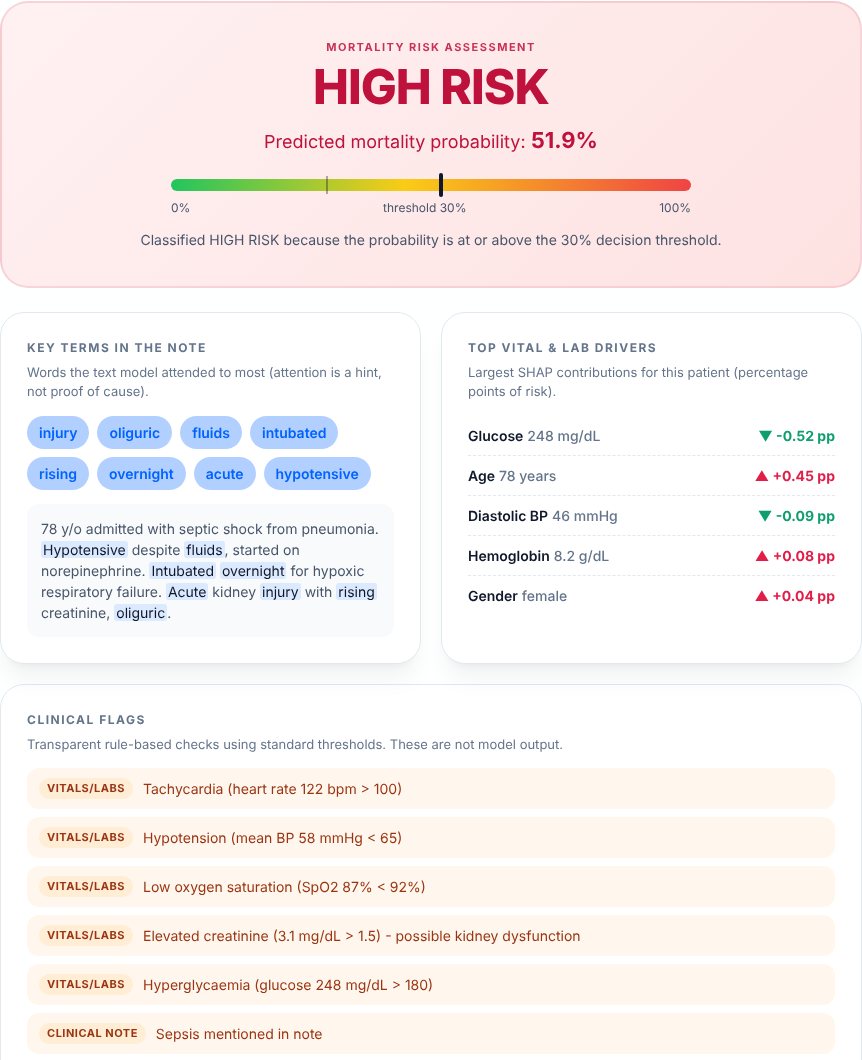
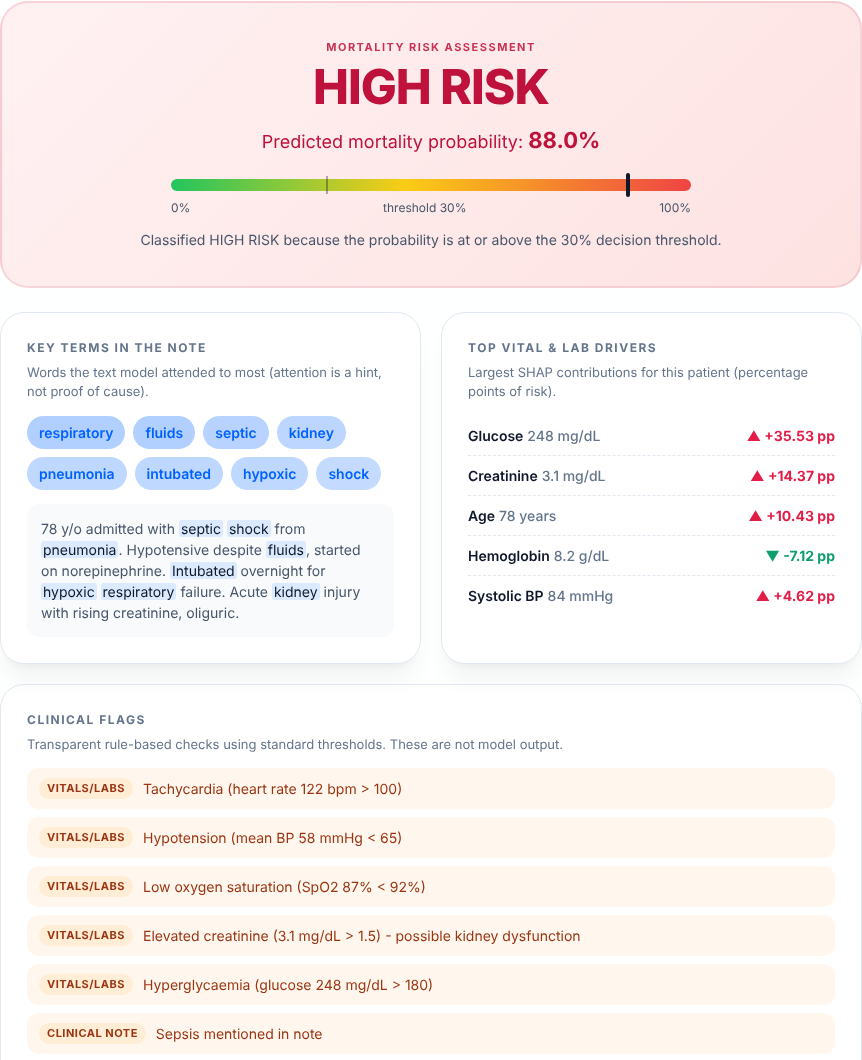
docs: real-model screenshots and measured numbers for the ONNX version
- screenshots now show the real published model (mixed-precision ONNX)
  instead of the test stand-in model
- resource table measured with the real model: 194 MB model, 342 MB peak
  RAM for the whole server, ~0.3 s per request on one core
- explains the mixed-precision choice with the quantization comparison
- documents BORDERLINE_MARGIN and the borderline flag

diff --git a/README.md b/README.md
@@ -9,8 +9,8 @@
 A full-stack system that estimates in-hospital mortality risk for ICU patients from
 **clinical notes (BioBERT)** and **vital signs / lab values**, and explains every
 prediction with **attention, exact SHAP and LIME**. Inference runs on **ONNX Runtime**
-with an int8-quantized BioBERT, so the whole app fits in **512 MB of RAM** and can be
-hosted for free.
+with a mixed-precision int8 BioBERT, so the whole app fits in **512 MB of RAM** (342 MB
+peak) and can be hosted for free.
 
 > ⚠ **Research prototype.** For education and research only. It is not a medical
 > device and has not been validated for clinical decision-making.
@@ -22,7 +22,7 @@ hosted for free.
 ## ✨ Features
 
 - **Multimodal model**: BioBERT note encoder + MLP for 10 vitals/labs, fused for a single risk score
-- **Lightweight inference**: ONNX Runtime + `tokenizers` + numpy, with no PyTorch on the server. The int8 encoder is 4× smaller (108 MB) and stays within 0.004 of the original probabilities
+- **Lightweight inference**: ONNX Runtime + `tokenizers` + numpy, with no PyTorch on the server. The mixed-precision int8 encoder is 2.2× smaller (194 MB). Its accuracy is measured on every export (mean probability change 0.009), and predictions close to the threshold are flagged as borderline
 - **Exact, fast explanations**: SHAP computed exactly from all 1,024 feature coalitions (identical to `shap.KernelExplainer`, 60× faster) and LIME, both in pure numpy, reusing one cached note embedding
 - **Clinician-readable output**: SHAP and LIME in real units (mmHg, mg/dL), key terms highlighted in the note, transparent rule-based clinical flags with negation handling
 - **Web app**: responsive, accessible UI with example patients, inline validation, live model status, charts drawn in the browser
@@ -38,7 +38,7 @@ hosted for free.
 |---|---|
 | ![Input form](images/ui_input.png) | ![Prediction result](images/ui_result.png) |
 
-<sub>Screenshots rendered with the test stand-in model, so the numbers shown are only illustrative.</sub>
+<sub>Real output of the published model (mixed-precision ONNX) for the built-in "Critical patient" example (synthetic data).</sub>
 
 ---
 
@@ -46,7 +46,7 @@ hosted for free.
 
 ```mermaid
 flowchart LR
-    N[Clinical note] --> T[tokenizers] --> B["BioBERT encoder<br/>(ONNX Runtime, int8)"]
+    N[Clinical note] --> T[tokenizers] --> B["BioBERT encoder<br/>(ONNX Runtime, mixed int8)"]
     B -->|CLS embedding| F
     B -->|"CLS attention"| A[Key terms]
     V[10 vitals / labs] --> C[Clip to clinical range] --> S[Standard scaler] --> F["Fusion head<br/>(numpy)"]
@@ -67,14 +67,14 @@ head (about 7k multiply-adds per sample) about 53,000 times, which takes a few m
 | Structured (local) | LIME (weighted ridge on quartile rules) | Simple threshold rules (e.g. `Creatinine > 1.34`) that approximate the model around this patient |
 | Rules | Standard clinical thresholds + negation-aware note keywords | Transparent flags such as *MAP < 65* or *vasopressors mentioned*, clearly separated from model output |
 
-### Resource use (full-size BioBERT, int8, 256-token note)
+### Resource use (real model, 256-token note, measured)
 
 | | PyTorch version | ONNX Runtime version |
 |---|---|---|
 | Server dependencies | ~2.5 GB | ~190 MB |
-| Model file | 434 MB | 108 MB |
-| Peak RAM | ~2 GB | **255 MB** |
-| Latency per request (1 CPU core) | minutes (old SHAP/LIME) | **~0.2 s** |
+| Model file | 434 MB | 194 MB |
+| Peak RAM (whole server) | ~2 GB | **342 MB** |
+| Latency per request (1 CPU core) | minutes (old SHAP/LIME) | **~0.3 s** |
 
 ---
 
@@ -93,7 +93,7 @@ pip install -r backend/requirements.txt     # lean: no PyTorch
 uvicorn backend.main:app --reload
 ```
 
-Open **http://127.0.0.1:8000**. On first start the ONNX model (~110 MB) is downloaded
+Open **http://127.0.0.1:8000**. On first start the ONNX model (~195 MB) is downloaded
 from the [`model-v1` release](https://github.com/kalavalashivaharikowshik/mimic-nlp-explainable-ai/releases/tag/model-v1)
 and verified against its SHA-256 checksums. The status pill turns green once it is ready.
 
@@ -187,10 +187,11 @@ All settings are optional environment variables (see [`.env.example`](.env.examp
 |---|---|---|
 | `MODEL_BASE_URL` | `model-v1` release URL | Where to download the ONNX model from |
 | `ONNX_DIR` | `backend/models/onnx` | Local model folder |
-| `ONNX_ENCODER` | manifest default (int8) | `encoder.onnx` for float32 |
+| `ONNX_ENCODER` | manifest default (mixed int8) | `encoder.onnx` for float32 (needs ~700 MB RAM) |
 | `ORT_THREADS` | `0` (auto) | ONNX Runtime CPU threads |
 | `ORT_LOW_MEMORY` | `true` | ~100 MB less RAM for ~25 % slower inference |
 | `THRESHOLD` | `0.3` | HIGH/LOW decision threshold on the probability |
+| `BORDERLINE_MARGIN` | `0.05` | Flag predictions this close to the threshold |
 | `ALLOWED_ORIGINS` | – | CORS origins, only needed if the UI is hosted elsewhere |
 | `PORT` | `8000` (Docker) | Server port |
 
@@ -225,7 +226,17 @@ python -m tools.export_onnx --weights training/outputs/hybrid_model.pth --out di
 
 This writes `encoder.onnx`, `encoder.int8.onnx`, `head.npz`, `tokenizer.json` and
 `manifest.json` (with SHA-256 checksums). The export fails if the float32 graph differs
-from PyTorch.
+from PyTorch, or if the int8 encoder changes probabilities too much on 120 synthetic notes.
+
+**Why mixed precision?** On the real fine-tuned model, plain int8 quantization changed
+probabilities by up to 0.18 (mean 0.021). BERT's feed-forward output projections see large
+activation outliers, so the export keeps those 12 layers in float32:
+
+| Encoder | Size | Max change | Mean change | Peak RAM |
+|---|---|---|---|---|
+| float32 | 431 MB | 0 | 0 | 642 MB |
+| plain int8 | 109 MB | 0.177 | 0.021 | 197 MB |
+| **mixed int8 (used)** | **194 MB** | **0.055** | **0.009** | **306 MB** |
 
 ---
 
@@ -235,7 +246,7 @@ from PyTorch.
 |---|---|
 | Task | Binary in-hospital mortality prediction for ICU stays |
 | Data | MIMIC (de-identified, PhysioNet credentialed access) |
-| Text encoder | `dmis-lab/biobert-base-cased-v1.1` (fine-tuned), served as int8 ONNX |
+| Text encoder | `dmis-lab/biobert-base-cased-v1.1` (fine-tuned), served as mixed-precision int8 ONNX |
 | Structured inputs | Age, gender, HR, SBP, DBP, MBP, SpO2, creatinine, glucose, hemoglobin |
 | Reported metrics (original run) | Accuracy ≈ 0.80 · F1 ≈ 0.47 · AUROC ≈ 0.87 |
 
@@ -247,7 +258,9 @@ from PyTorch.
 - **The published weights barely use heart rate, blood pressure and SpO2.** Their scaler was
   fitted on uncleaned data (SpO2 mean 102.7 %, MBP std 1,722 mmHg), which squashes these
   vitals to almost the same value for every patient. Retraining fixes this.
-- int8 quantization changes probabilities by up to ~0.004 compared with float32.
+- Quantization changes probabilities by 0.009 on average (max 0.055) compared with float32.
+  Labels only changed for patients within 0.003 of the threshold, and the UI marks predictions
+  within 5 percentage points of the threshold as borderline.
 - Attention weights are a hint about what the encoder focused on, not a causal explanation.
 - SHAP and LIME explain the structured features with the note held fixed.
 - Trained on a single US hospital system; performance elsewhere is unknown.
